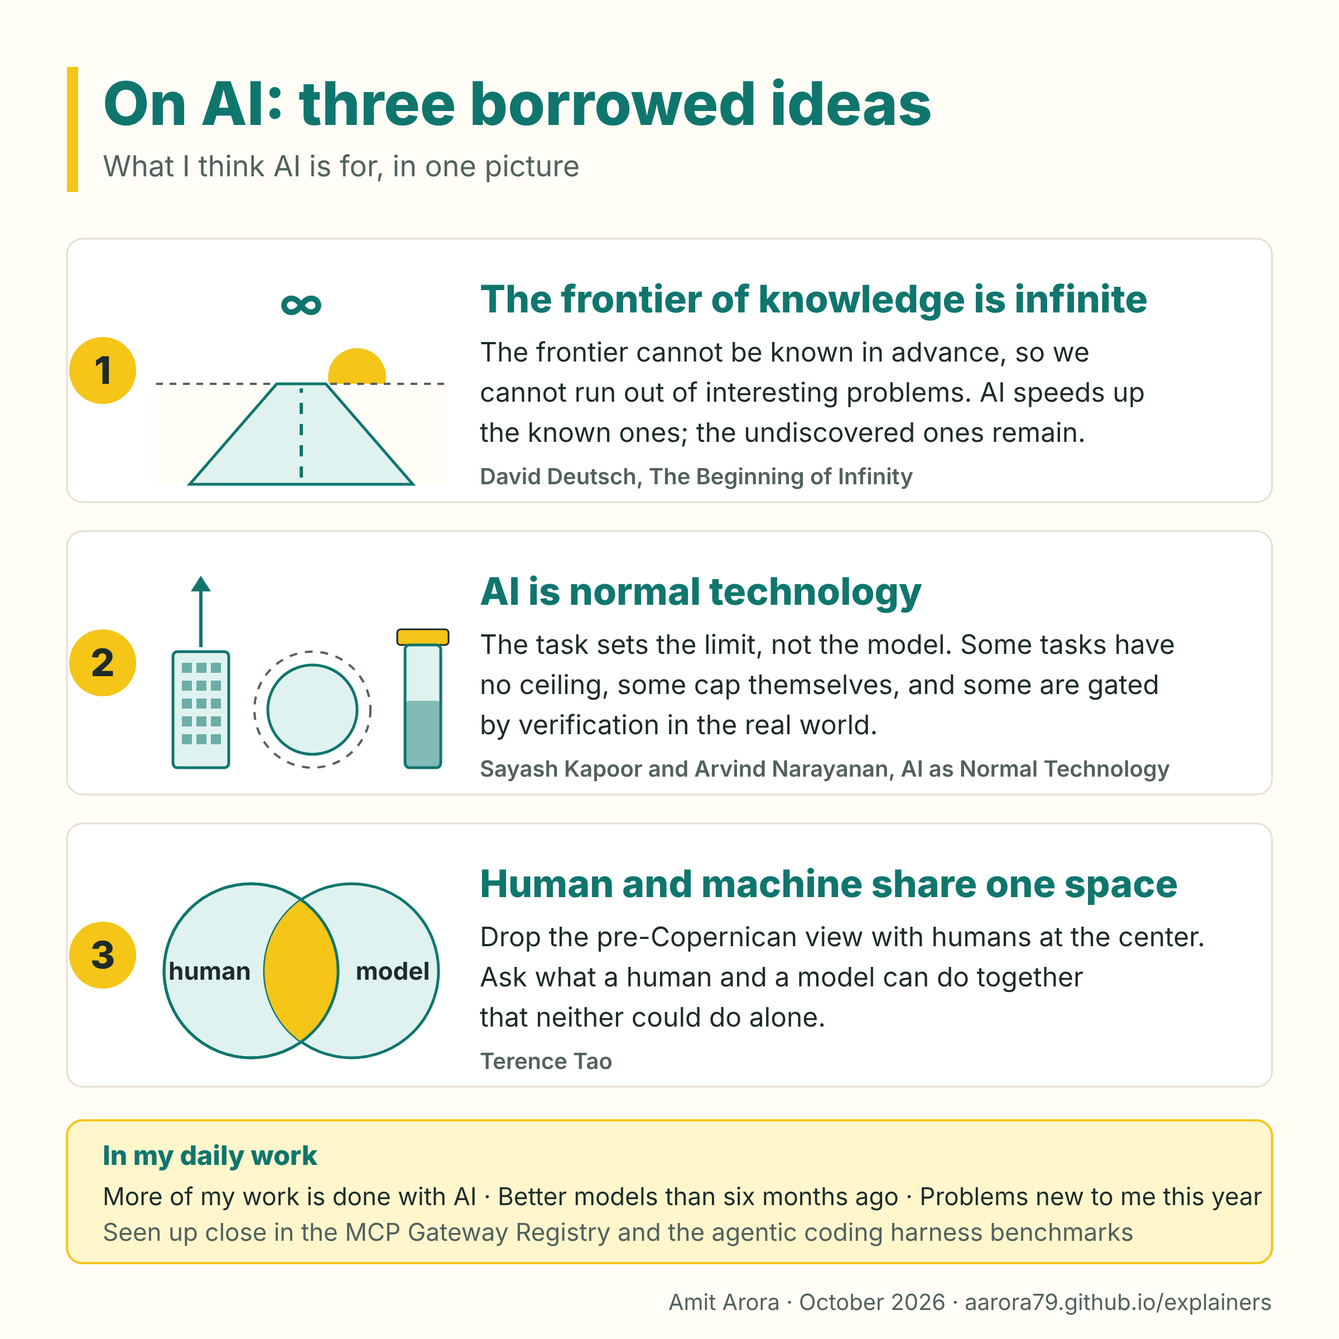
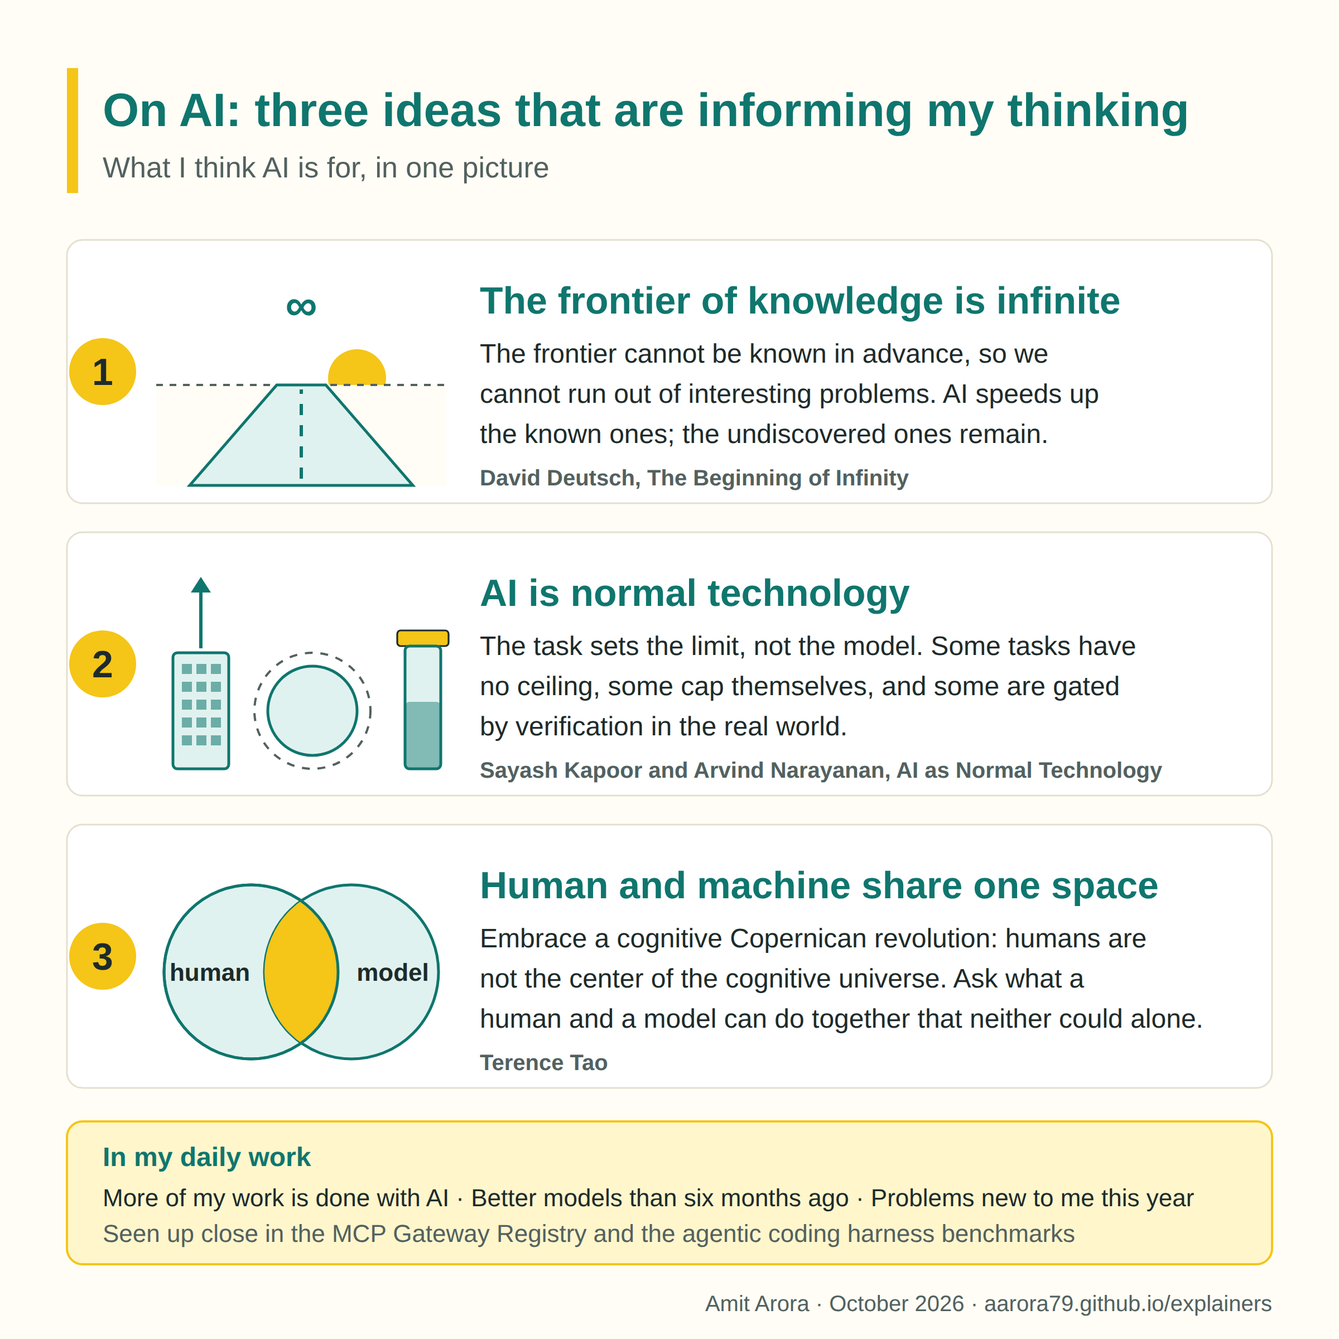
Update the Tao section to the cognitive Copernican framing
Rewrite the third idea in the prose and the infographic, cite the
Klowden and Tao arXiv paper with the section number, and re-render
the PNG from the updated SVG.

diff --git a/on-ai.html b/on-ai.html
@@ -1,0 +1,217 @@
+<!DOCTYPE html>
+<html lang="en">
+<head>
+<meta charset="utf-8">
+<meta name="viewport" content="width=device-width, initial-scale=1">
+<title>On AI: three ideas that are informing my thinking</title>
+<style>
+  :root {
+    --bg: #fffdf5; --surface: #ffffff; --ink: #1d2b2a; --muted: #52615f;
+    --teal: #0f766e; --teal-soft: #e0f2ef; --yellow: #f5c518; --yellow-soft: #fff6cc;
+    --line: #e4e0d0; --code: #f3f1e8; --zebra: #faf8ef;
+  }
+  @media (prefers-color-scheme: dark) {
+    :root {
+      --bg: #10191a; --surface: #172224; --ink: #e8efee; --muted: #9fb2b0;
+      --teal: #4fd1c1; --teal-soft: #173a38; --yellow: #f5c518; --yellow-soft: #3a3312;
+      --line: #2a3a3b; --code: #1f2c2e; --zebra: #13201f;
+    }
+  }
+  * { box-sizing: border-box; }
+  body { margin: 0; background: var(--bg); color: var(--ink);
+    font: 16px/1.6 -apple-system, "Segoe UI", Roboto, Helvetica, Arial, sans-serif; }
+  main { max-width: 860px; margin: 0 auto; padding: 32px 16px 64px; }
+  header { border-left: 6px solid var(--yellow); padding: 4px 0 4px 16px; margin-bottom: 28px; }
+  h1 { margin: 0; font-size: 1.9rem; color: var(--teal); }
+  .sub { color: var(--muted); margin: 4px 0 0; }
+  h2 { font-size: 1.25rem; color: var(--teal); margin: 36px 0 10px;
+    padding-bottom: 6px; border-bottom: 2px solid var(--yellow); }
+  a { color: var(--teal); }
+  p { margin: 0 0 18px; }
+  ul li { margin: 4px 0; }
+  .lede { font-size: 1.05rem; }
+  .note { background: var(--yellow-soft); border-left: 4px solid var(--yellow); padding: 10px 14px;
+    border-radius: 0 8px 8px 0; margin: 0 0 18px; }
+  .figwrap { background: var(--surface); border: 1px solid var(--line); border-radius: 10px;
+    padding: 18px; margin: 20px 0; }
+  .figwrap svg { width: 100%; height: auto; display: block; }
+  figcaption { color: var(--muted); font-size: .85rem; margin-top: 10px; }
+  .diag-label { fill: var(--muted); font: 600 13px "Segoe UI", Roboto, sans-serif; }
+  .diag-ink { fill: var(--ink); font-family: "Segoe UI", Roboto, sans-serif; }
+  pre.plain { background: var(--code); border: 1px solid var(--line); border-radius: 8px;
+    padding: 14px 16px; font: 14px/1.5 ui-monospace, Consolas, "Liberation Mono", monospace;
+    white-space: pre-wrap; word-break: break-word; color: var(--ink); }
+  footer { margin-top: 40px; color: var(--muted); font-size: .85rem; }
+  @media print { body { background: #fff; } main { padding: 0; } .figwrap { break-inside: avoid; } }
+</style>
+</head>
+<body>
+<main>
+
+<header>
+  <h1>On AI: three ideas that are informing my thinking</h1>
+  <p class="sub">David Deutsch, Sayash Kapoor and Arvind Narayanan, Terence Tao &middot; October 2026</p>
+</header>
+
+<p class="lede">Last week, at dinner with colleagues, a sidebar conversation turned to the big picture on AI. It made me write down ideas I had picked up from two years of reading but never thought through.</p>
+
+<p class="note">Fair warning: everything here is my own interpretation of what I read. Any misreading is mine alone.</p>
+
+<div class="figwrap">
+<svg viewBox="0 0 1200 1200" xmlns="http://www.w3.org/2000/svg" role="img" aria-label="Three ideas that are informing my thinking on AI: the frontier of knowledge is infinite (Deutsch), AI is normal technology (Kapoor and Narayanan), and human and machine intelligence share the same space (Tao). In my daily work: more done with AI, better models every six months, problems I did not know existed a few months ago.">
+  <rect width="1200" height="1200" fill="var(--bg)"/>
+
+  <!-- header -->
+  <rect x="60" y="60" width="10" height="112" fill="var(--yellow)"/>
+  <text x="92" y="112" font-family='"Segoe UI", Roboto, Helvetica, Arial, sans-serif' font-size="42" font-weight="800" fill="var(--teal)">On AI: three ideas that are informing my thinking</text>
+  <text x="92" y="158" font-family='"Segoe UI", Roboto, Helvetica, Arial, sans-serif' font-size="26" fill="var(--muted)">What I think AI is for, in one picture</text>
+
+  <!-- rows -->
+  <rect x="60" y="214" width="1080" height="236" rx="14" fill="var(--surface)" stroke="var(--line)" stroke-width="1.5"/>
+  <g transform="translate(0,214)">
+<circle cx="92" cy="118" r="30" fill="var(--yellow)"/>
+<text x="92" y="130" text-anchor="middle" font-family='"Segoe UI", Roboto, Helvetica, Arial, sans-serif' font-size="34" font-weight="800" fill="var(--ink)">1</text>
+<g transform="translate(120,12)">
+  <line x1="20" y1="118" x2="280" y2="118" stroke="var(--muted)" stroke-width="2" stroke-dasharray="6,6"/>
+  <circle cx="200" cy="112" r="26" fill="var(--yellow)"/>
+  <rect x="20" y="118" width="260" height="90" fill="var(--bg)"/>
+  <line x1="20" y1="118" x2="280" y2="118" stroke="var(--muted)" stroke-width="2" stroke-dasharray="6,6"/>
+  <path d="M50,208 L250,208 L172,118 L128,118 Z" fill="var(--teal-soft)" stroke="var(--teal)" stroke-width="2.5"/>
+  <line x1="150" y1="202" x2="150" y2="122" stroke="var(--teal)" stroke-width="3" stroke-dasharray="10,9"/>
+  <text x="150" y="60" text-anchor="middle" font-family='"Segoe UI", Roboto, Helvetica, Arial, sans-serif' font-size="40" font-weight="700" fill="var(--teal)">&#8734;</text>
+</g>
+<text x="430" y="66" font-family='"Segoe UI", Roboto, Helvetica, Arial, sans-serif' font-size="34" font-weight="800" fill="var(--teal)">The frontier of knowledge is infinite</text>
+<text x="430" y="110" font-family='"Segoe UI", Roboto, Helvetica, Arial, sans-serif' font-size="24" fill="var(--ink)">The frontier cannot be known in advance, so we</text>
+<text x="430" y="146" font-family='"Segoe UI", Roboto, Helvetica, Arial, sans-serif' font-size="24" fill="var(--ink)">cannot run out of interesting problems. AI speeds up</text>
+<text x="430" y="182" font-family='"Segoe UI", Roboto, Helvetica, Arial, sans-serif' font-size="24" fill="var(--ink)">the known ones; the undiscovered ones remain.</text>
+<text x="430" y="220" font-family='"Segoe UI", Roboto, Helvetica, Arial, sans-serif' font-size="20" font-weight="600" fill="var(--muted)">David Deutsch, The Beginning of Infinity</text>
+</g>
+
+  <rect x="60" y="476" width="1080" height="236" rx="14" fill="var(--surface)" stroke="var(--line)" stroke-width="1.5"/>
+  <g transform="translate(0,476)">
+<circle cx="92" cy="118" r="30" fill="var(--yellow)"/>
+<text x="92" y="130" text-anchor="middle" font-family='"Segoe UI", Roboto, Helvetica, Arial, sans-serif' font-size="34" font-weight="800" fill="var(--ink)">2</text>
+<g transform="translate(120,12)">
+  <line x1="60" y1="92" x2="60" y2="30" stroke="var(--teal)" stroke-width="3"/>
+  <path d="M51,42 L60,28 L69,42 z" fill="var(--teal)"/>
+  <rect x="35" y="96" width="50" height="104" rx="4" fill="var(--teal-soft)" stroke="var(--teal)" stroke-width="2.5"/>
+  <g fill="var(--teal)" opacity="0.55">
+    <rect x="43" y="106" width="9" height="9"/><rect x="56" y="106" width="9" height="9"/><rect x="69" y="106" width="9" height="9"/>
+    <rect x="43" y="122" width="9" height="9"/><rect x="56" y="122" width="9" height="9"/><rect x="69" y="122" width="9" height="9"/>
+    <rect x="43" y="138" width="9" height="9"/><rect x="56" y="138" width="9" height="9"/><rect x="69" y="138" width="9" height="9"/>
+    <rect x="43" y="154" width="9" height="9"/><rect x="56" y="154" width="9" height="9"/><rect x="69" y="154" width="9" height="9"/>
+    <rect x="43" y="170" width="9" height="9"/><rect x="56" y="170" width="9" height="9"/><rect x="69" y="170" width="9" height="9"/>
+  </g>
+  <circle cx="160" cy="148" r="52" fill="none" stroke="var(--muted)" stroke-width="2" stroke-dasharray="7,7"/>
+  <circle cx="160" cy="148" r="40" fill="var(--teal-soft)" stroke="var(--teal)" stroke-width="2.5"/>
+  <rect x="236" y="76" width="46" height="14" rx="3" fill="var(--yellow)" stroke="var(--ink)" stroke-width="1.6"/>
+  <rect x="243" y="90" width="32" height="110" rx="4" fill="var(--teal-soft)" stroke="var(--teal)" stroke-width="2.5"/>
+  <rect x="243" y="140" width="32" height="60" rx="4" fill="var(--teal)" opacity="0.45"/>
+</g>
+<text x="430" y="66" font-family='"Segoe UI", Roboto, Helvetica, Arial, sans-serif' font-size="34" font-weight="800" fill="var(--teal)">AI is normal technology</text>
+<text x="430" y="110" font-family='"Segoe UI", Roboto, Helvetica, Arial, sans-serif' font-size="24" fill="var(--ink)">The task sets the limit, not the model. Some tasks have</text>
+<text x="430" y="146" font-family='"Segoe UI", Roboto, Helvetica, Arial, sans-serif' font-size="24" fill="var(--ink)">no ceiling, some cap themselves, and some are gated</text>
+<text x="430" y="182" font-family='"Segoe UI", Roboto, Helvetica, Arial, sans-serif' font-size="24" fill="var(--ink)">by verification in the real world.</text>
+<text x="430" y="220" font-family='"Segoe UI", Roboto, Helvetica, Arial, sans-serif' font-size="20" font-weight="600" fill="var(--muted)">Sayash Kapoor and Arvind Narayanan, AI as Normal Technology</text>
+</g>
+
+  <rect x="60" y="738" width="1080" height="236" rx="14" fill="var(--surface)" stroke="var(--line)" stroke-width="1.5"/>
+  <g transform="translate(0,738)">
+<circle cx="92" cy="118" r="30" fill="var(--yellow)"/>
+<text x="92" y="130" text-anchor="middle" font-family='"Segoe UI", Roboto, Helvetica, Arial, sans-serif' font-size="34" font-weight="800" fill="var(--ink)">3</text>
+<g transform="translate(120,12)">
+  <defs>
+    <clipPath id="c-left"><circle cx="105" cy="120" r="78"/></clipPath>
+  </defs>
+  <circle cx="105" cy="120" r="78" fill="var(--teal-soft)" stroke="var(--teal)" stroke-width="2.5"/>
+  <circle cx="195" cy="120" r="78" fill="var(--teal-soft)" stroke="var(--teal)" stroke-width="2.5"/>
+  <circle cx="195" cy="120" r="78" fill="var(--yellow)" clip-path="url(#c-left)"/>
+  <circle cx="105" cy="120" r="78" fill="none" stroke="var(--teal)" stroke-width="2.5"/>
+  <text x="68" y="128" text-anchor="middle" font-family='"Segoe UI", Roboto, Helvetica, Arial, sans-serif' font-size="22" font-weight="700" fill="var(--ink)">human</text>
+  <text x="232" y="128" text-anchor="middle" font-family='"Segoe UI", Roboto, Helvetica, Arial, sans-serif' font-size="22" font-weight="700" fill="var(--ink)">model</text>
+</g>
+<text x="430" y="66" font-family='"Segoe UI", Roboto, Helvetica, Arial, sans-serif' font-size="34" font-weight="800" fill="var(--teal)">Human and machine share one space</text>
+<text x="430" y="110" font-family='"Segoe UI", Roboto, Helvetica, Arial, sans-serif' font-size="24" fill="var(--ink)">Embrace a cognitive Copernican revolution: humans are</text>
+<text x="430" y="146" font-family='"Segoe UI", Roboto, Helvetica, Arial, sans-serif' font-size="24" fill="var(--ink)">not the center of the cognitive universe. Ask what a</text>
+<text x="430" y="182" font-family='"Segoe UI", Roboto, Helvetica, Arial, sans-serif' font-size="24" fill="var(--ink)">human and a model can do together that neither could alone.</text>
+<text x="430" y="220" font-family='"Segoe UI", Roboto, Helvetica, Arial, sans-serif' font-size="20" font-weight="600" fill="var(--muted)">Terence Tao</text>
+</g>
+
+  <!-- footer strip -->
+  <rect x="60" y="1004" width="1080" height="128" rx="14" fill="var(--yellow-soft)" stroke="var(--yellow)" stroke-width="2"/>
+  <text x="92" y="1044" font-family='"Segoe UI", Roboto, Helvetica, Arial, sans-serif' font-size="24" font-weight="800" fill="var(--teal)">In my daily work</text>
+  <text x="92" y="1080" font-family='"Segoe UI", Roboto, Helvetica, Arial, sans-serif' font-size="22" fill="var(--ink)">More of my work is done with AI &#183; Better models than six months ago &#183; Problems new to me this year</text>
+  <text x="92" y="1112" font-family='"Segoe UI", Roboto, Helvetica, Arial, sans-serif' font-size="22" fill="var(--muted)">Seen up close in the MCP Gateway Registry and the agentic coding harness benchmarks</text>
+
+  <text x="1140" y="1174" text-anchor="end" font-family='"Segoe UI", Roboto, Helvetica, Arial, sans-serif' font-size="20" fill="var(--muted)">Amit Arora &#183; October 2026 &#183; aarora79.github.io/explainers</text>
+</svg>
+<figcaption>The three ideas on one page. The same picture is in <code>on-ai-infographic.png</code>
+for the LinkedIn post.</figcaption>
+</div>
+
+<h2>1. The frontier of knowledge is infinite</h2>
+<p>This comes from David Deutsch's <i>The Beginning of Infinity</i>. The frontier of knowledge cannot be known in advance, so we cannot run out of interesting problems to solve. AI speeds up how fast we solve the known ones, and an infinite set of undiscovered ones remains.</p>
+<p class="note"><b>From my work.</b> A year and a half ago, when MCP was just getting traction, I had a hazy idea of one gateway in front of many MCP servers. The <a href="https://github.com/agentic-community/mcp-gateway-registry">MCP Gateway Registry</a> started there. Building it turned up problems I did not start with: path-based routing, virtual MCP servers that mix tools from several servers, interop with other registries. The backlog is growing faster than we can close it.</p>
+
+<h2>2. AI is normal technology</h2>
+<p>This is Sayash Kapoor and Arvind Narayanan's framing. As I read it, the task sets the limit on what AI can do, and tasks come in three kinds.</p>
+<ul>
+  <li>Some have computational limits, where more compute and better models buy better performance.</li>
+  <li>Some have fundamental limits that a better model cannot exceed.</li>
+  <li>Some are gated by verification in the real world, which no model improvement can skip.</li>
+</ul>
+<p class="note"><b>From my work.</b> The <a href="https://github.com/aarora79/agentic-coding-harness-benchmarks">agentic coding harness benchmarks</a> plot quality against cost across harnesses and models. The Pareto frontier moves when a better model ships. Much of the result still comes from the harness, the task, and whether the tests pass.</p>
+
+<h2>3. Human and machine intelligence share the same space</h2>
+<p>This comes from Terence Tao. He asks us to embrace a cognitive version of the Copernican revolution: the old picture had human intelligence at the center of the cognitive universe, and now other "planets" of intelligence are appearing, comparable to our own. Human and artificial intelligence sit in the same ontological category, with differences and complementarities. The question becomes what a human and a model can do together that neither could do alone.</p>
+<p class="note"><b>From my work.</b> The benchmark uses the registry repo as one of its task sets, so the two projects meet in one place. On the registry, coding agents triage the issue backlog, review pull requests and write much of the code, directed by me through skills I wrote. It is a software factory with a human in the loop, for now at least, with agents and humans working in the same space.</p>
+
+<h2>In my daily work</h2>
+<ul>
+  <li>I do far more of my work with AI now.</li>
+  <li>I explore ideas with better models than I had six months ago.</li>
+  <li>Some of what I work on today, I did not know existed a few months ago.</li>
+</ul>
+
+<h2>Sources</h2>
+<ul>
+  <li><a href="https://teorth.github.io/tao-web/ai-views.html">Terence Tao on AI in mathematics (and beyond)</a> &mdash; the collected views, including the helicopter image, population studies, and answers against insight</li>
+  <li><a href="https://arxiv.org/abs/2603.26524">Mathematical methods and human thought in the age of AI</a> &mdash; Tanya Klowden and Terence Tao, March 2026; the Copernican view is section 6.4 (also on <a href="https://terrytao.wordpress.com/2026/03/29/mathematical-methods-and-human-thought-in-the-age-of-ai/">Tao's blog</a>)</li>
+  <li><a href="https://terrytao.wordpress.com/2026/09/24/were-gonna-need-a-lot-more-mathematicians/">We're gonna need a lot more mathematicians</a> &mdash; Amit Sahai, guest post on Tao's blog, on human understanding keeping pace</li>
+  <li>David Deutsch, <i>The Beginning of Infinity</i>, 2011 &mdash; unbounded knowledge growth, and why the content of future knowledge cannot be forecast</li>
+  <li><a href="https://www.normaltech.ai/">AI as Normal Technology</a> &mdash; Arvind Narayanan and Sayash Kapoor; the three-category argument is Kapoor's</li>
+  <li><a href="https://github.com/agentic-community/mcp-gateway-registry">MCP Gateway Registry</a> &mdash; open source, agentic-community; the project in the first and third examples</li>
+  <li><a href="https://github.com/aarora79/agentic-coding-harness-benchmarks">Agentic coding harness benchmarks</a> &mdash; open source; the project in the second and third examples</li>
+</ul>
+
+<h2>References, ready to paste as a LinkedIn comment</h2>
+<pre class="plain">References for the ideas in the post:
+
+1. A more readable version of this post, with the picture and links, on my blog
+https://aarora79.github.io/explainers/on-ai/
+
+2. Terence Tao on AI in mathematics (and beyond) — the collected views, including the helicopter image, population studies, and answers against insight
+https://teorth.github.io/tao-web/ai-views.html
+
+3. Mathematical methods and human thought in the age of AI — Tanya Klowden and Terence Tao, March 2026; the Copernican view is section 6.4 (also on <a href="https://terrytao.wordpress.com/2026/03/29/mathematical-methods-and-human-thought-in-the-age-of-ai/">Tao's blog</a>)
+https://arxiv.org/abs/2603.26524
+
+4. We're gonna need a lot more mathematicians — Amit Sahai, guest post on Tao's blog, on human understanding keeping pace
+https://terrytao.wordpress.com/2026/09/24/were-gonna-need-a-lot-more-mathematicians/
+
+5. David Deutsch, The Beginning of Infinity, 2011 — unbounded knowledge growth, and why the content of future knowledge cannot be forecast
+
+6. AI as Normal Technology — Arvind Narayanan and Sayash Kapoor; the three-category argument is Kapoor's
+https://www.normaltech.ai/
+
+7. MCP Gateway Registry — open source, agentic-community; the project in the first and third examples
+https://github.com/agentic-community/mcp-gateway-registry
+
+8. Agentic coding harness benchmarks — open source; the project in the second and third examples
+https://github.com/aarora79/agentic-coding-harness-benchmarks</pre>
+<p>Reference 1 in the comment is this page: <a href="https://aarora79.github.io/explainers/on-ai/">aarora79.github.io/explainers/on-ai/</a></p>
+
+<footer>Amit Arora, October 2026. The ideas belong to the people named; the arrangement is mine.</footer>
+</main>
+</body>
+</html>

diff --git a/explainers/on-ai/index.html b/explainers/on-ai/index.html
@@ -128,9 +128,9 @@
   <text x="232" y="128" text-anchor="middle" font-family='"Segoe UI", Roboto, Helvetica, Arial, sans-serif' font-size="22" font-weight="700" fill="var(--ink)">model</text>
 </g>
 <text x="430" y="66" font-family='"Segoe UI", Roboto, Helvetica, Arial, sans-serif' font-size="34" font-weight="800" fill="var(--teal)">Human and machine share one space</text>
-<text x="430" y="110" font-family='"Segoe UI", Roboto, Helvetica, Arial, sans-serif' font-size="24" fill="var(--ink)">Drop the pre-Copernican view with humans at the center.</text>
-<text x="430" y="146" font-family='"Segoe UI", Roboto, Helvetica, Arial, sans-serif' font-size="24" fill="var(--ink)">Ask what a human and a model can do together</text>
-<text x="430" y="182" font-family='"Segoe UI", Roboto, Helvetica, Arial, sans-serif' font-size="24" fill="var(--ink)">that neither could do alone.</text>
+<text x="430" y="110" font-family='"Segoe UI", Roboto, Helvetica, Arial, sans-serif' font-size="24" fill="var(--ink)">Embrace a cognitive Copernican revolution: humans are</text>
+<text x="430" y="146" font-family='"Segoe UI", Roboto, Helvetica, Arial, sans-serif' font-size="24" fill="var(--ink)">not the center of the cognitive universe. Ask what a</text>
+<text x="430" y="182" font-family='"Segoe UI", Roboto, Helvetica, Arial, sans-serif' font-size="24" fill="var(--ink)">human and a model can do together that neither could alone.</text>
 <text x="430" y="220" font-family='"Segoe UI", Roboto, Helvetica, Arial, sans-serif' font-size="20" font-weight="600" fill="var(--muted)">Terence Tao</text>
 </g>
 
@@ -160,7 +160,7 @@
 <p class="note"><b>From my work.</b> The <a href="https://github.com/aarora79/agentic-coding-harness-benchmarks">agentic coding harness benchmarks</a> plot quality against cost across harnesses and models. The Pareto frontier moves when a better model ships. Much of the result still comes from the harness, the task, and whether the tests pass.</p>
 
 <h2>3. Human and machine intelligence share the same space</h2>
-<p>This comes from Terence Tao. He says to drop the pre-Copernican view that puts human intelligence at the center of the universe and to treat human and artificial intelligence as sharing one ontological space. Then the question becomes what a human and a model can do together that neither could do alone.</p>
+<p>This comes from Terence Tao. He asks us to embrace a cognitive version of the Copernican revolution: the old picture had human intelligence at the center of the cognitive universe, and now other "planets" of intelligence are appearing, comparable to our own. Human and artificial intelligence sit in the same ontological category, with differences and complementarities. The question becomes what a human and a model can do together that neither could do alone.</p>
 <p class="note"><b>From my work.</b> The benchmark uses the registry repo as one of its task sets, so the two projects meet in one place. On the registry, coding agents triage the issue backlog, review pull requests and write much of the code, directed by me through skills I wrote. It is a software factory with a human in the loop, for now at least, with agents and humans working in the same space.</p>
 
 <h2>In my daily work</h2>
@@ -173,7 +173,7 @@
 <h2>References</h2>
 <ul>
   <li><a href="https://teorth.github.io/tao-web/ai-views.html">Terence Tao on AI in mathematics (and beyond)</a> &mdash; the collected views, including the helicopter image, population studies, and answers against insight</li>
-  <li><a href="https://terrytao.wordpress.com/2026/03/29/mathematical-methods-and-human-thought-in-the-age-of-ai/">Mathematical methods and human thought in the age of AI</a> &mdash; Tao, March 2026</li>
+  <li><a href="https://arxiv.org/abs/2603.26524">Mathematical methods and human thought in the age of AI</a> &mdash; Tanya Klowden and Terence Tao, March 2026; the Copernican view is section 6.4 (also on <a href="https://terrytao.wordpress.com/2026/03/29/mathematical-methods-and-human-thought-in-the-age-of-ai/">Tao's blog</a>)</li>
   <li><a href="https://terrytao.wordpress.com/2026/09/24/were-gonna-need-a-lot-more-mathematicians/">We're gonna need a lot more mathematicians</a> &mdash; Amit Sahai, guest post on Tao's blog, on human understanding keeping pace</li>
   <li>David Deutsch, <i>The Beginning of Infinity</i>, 2011 &mdash; unbounded knowledge growth, and why the content of future knowledge cannot be forecast</li>
   <li><a href="https://www.normaltech.ai/">AI as Normal Technology</a> &mdash; Arvind Narayanan and Sayash Kapoor; the three-category argument is Kapoor's</li>
